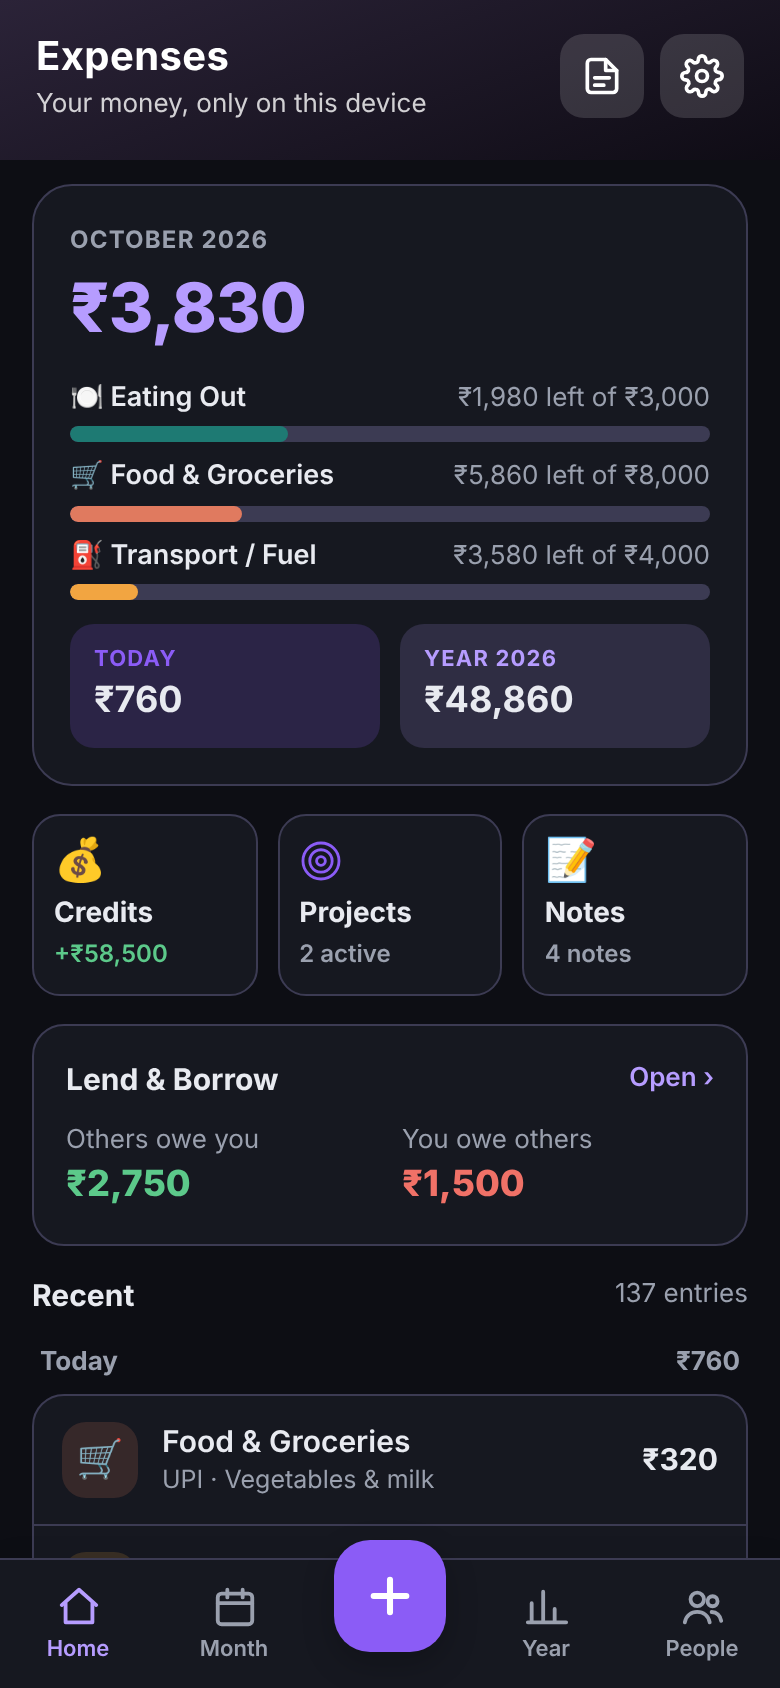
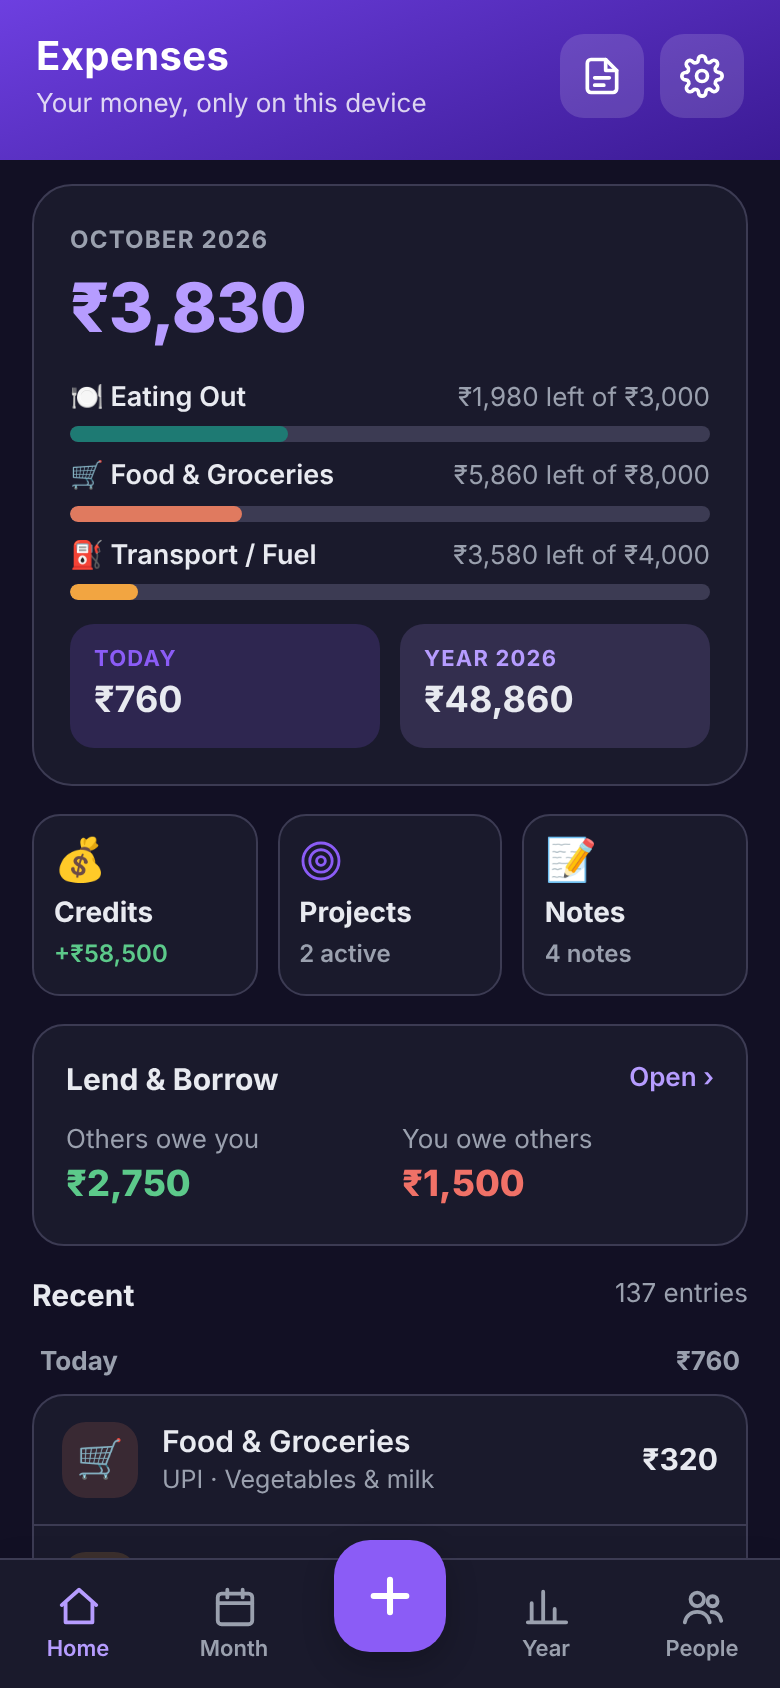
Themes: Purple, Blue and Rose Gold are now the main colour with black second; Black & Gold unchanged

Changed region(s): [[0.0, 0.0, 1.0, 0.0924]]

diff --git a/index.html b/index.html
@@ -16,9 +16,10 @@
 <style>
 /* ---- colour themes: P = main colour, PD = main colour in dark mode, A = accent, T = third, H1/H2 = header ---- */
 [data-theme="gold"]  {--P:#1F1F24;--PD:#E2B64B;--A:#D9A21B;--T:#2F9E6E;--H1:#2E2E35;--H2:#111114;--onP:#fff;--onPD:#1A1406;--onA:#1A1406}
-[data-theme="purple"]{--P:#1E1A28;--PD:#B69CFF;--A:#8B5CF6;--T:#2F9E6E;--H1:#2B2338;--H2:#0F0C15;--onP:#fff;--onPD:#1A1033;--onA:#fff}
-[data-theme="blue"]  {--P:#181C24;--PD:#8DB8FF;--A:#2F74E8;--T:#2F9E6E;--H1:#232A36;--H2:#0B0E14;--onP:#fff;--onPD:#0A1830;--onA:#fff}
-[data-theme="rose"]  {--P:#221D1E;--PD:#EDB4A2;--A:#C8826B;--T:#2F9E6E;--H1:#312A2B;--H2:#131011;--onP:#fff;--onPD:#2A140E;--onA:#1F0F0A}
+/* Purple / Blue / Rose Gold: main colour first, black second. AD/onAD = second colour in dark mode (the screen is already black, so a stronger shade of the main colour is used) */
+[data-theme="purple"]{--P:#5B2EDB;--PD:#B69CFF;--A:#17141F;--AD:#8B5CF6;--T:#2F9E6E;--H1:#6D3FE0;--H2:#3B1A94;--onP:#fff;--onPD:#1A1033;--onA:#fff;--onAD:#fff}
+[data-theme="blue"]  {--P:#2058D8;--PD:#8DB8FF;--A:#14171F;--AD:#3B82F6;--T:#2F9E6E;--H1:#2E6BEA;--H2:#173A8C;--onP:#fff;--onPD:#0A1830;--onA:#fff;--onAD:#fff}
+[data-theme="rose"]  {--P:#A8636E;--PD:#F0B8B4;--A:#1C1718;--AD:#D0868F;--T:#2F9E6E;--H1:#BE7E82;--H2:#7E4652;--onP:#fff;--onPD:#2A1418;--onA:#fff;--onAD:#1C1718}
 :root{
   --bg:#F5F6F8; --card:#FFFFFF; --text:#1E2230; --muted:#6B7080; --line:#E7E8EE;
   --pri:var(--P); --on-pri:var(--onP); --acc:var(--A); --on-acc:var(--onA); --third:var(--T); --big:var(--H2);
@@ -35,7 +36,7 @@
 }
 @media (prefers-color-scheme:dark){
   :root{ --bg:#0D0F14; --card:#171A21; --text:#E8EAF0; --muted:#9AA0AE; --line:#2A2E38;
-    --pri:var(--PD); --on-pri:var(--onPD); --big:var(--PD); --red:#F07167; --green:#5CC98A;
+    --pri:var(--PD); --on-pri:var(--onPD); --big:var(--PD); --acc:var(--AD, var(--A)); --on-acc:var(--onAD, var(--onA)); --red:#F07167; --green:#5CC98A;
     --pri-l:#232733; --acc-l:#2E241F; --red-l:#33201F; --green-l:#1C2E25; --shadow:none; color-scheme:dark; }
   @supports (color: color-mix(in srgb, red 50%, blue)){
     :root{ --bg:color-mix(in srgb, var(--P) 9%, #0B0D12); --card:color-mix(in srgb, var(--P) 7%, #15181F);
@@ -421,10 +422,10 @@ const DEFAULT_PAYS = ["UPI","Cash","Debit Card","Credit Card","Net Banking","Oth
 const YOU = "You";
 const DEFAULT_THEME = "gold";
 const THEMES = {
-  gold:   {name:"Black & Gold",   c:["#1F1F24","#D9A21B"], bar:"#111114"},
-  purple: {name:"Purple & Black", c:["#1E1A28","#8B5CF6"], bar:"#0F0C15"},
-  blue:   {name:"Blue & Black",   c:["#181C24","#2F74E8"], bar:"#0B0E14"},
-  rose:   {name:"Rose Gold & Black", c:["#221D1E","#C8826B"], bar:"#131011"}
+  gold:   {name:"Black & Gold",      c:["#1F1F24","#D9A21B"], bar:"#111114"},
+  purple: {name:"Purple & Black",    c:["#5B2EDB","#17141F"], bar:"#3B1A94"},
+  blue:   {name:"Blue & Black",      c:["#2058D8","#14171F"], bar:"#173A8C"},
+  rose:   {name:"Rose Gold & Black", c:["#A8636E","#1C1718"], bar:"#7E4652"}
 };
 function applyTheme(){
   const t = THEMES[D.settings.theme] ? D.settings.theme : DEFAULT_THEME;
@@ -1388,7 +1389,8 @@ function personColor(name){
   if(name===YOU) return "var(--pri)";
   let h=0; for(const ch of name.toLowerCase()) h=(h*31+ch.charCodeAt(0))>>>0;
   // skip colours that look too much like your own ("You") colour in the current theme
-  const me = hexRGB(getComputedStyle(document.documentElement).getPropertyValue("--pri").trim());
+  // (not needed for Black & Gold, which stays exactly as it was)
+  const me = document.documentElement.dataset.theme==="gold" ? null : hexRGB(getComputedStyle(document.documentElement).getPropertyValue("--pri").trim());
   for(let k=0;k<AV_COLORS.length;k++){
     const c = AV_COLORS[(h+k) % AV_COLORS.length], o = hexRGB(c);
     if(!me || !o || Math.hypot(me[0]-o[0], me[1]-o[1], me[2]-o[2]) > 110) return c;

diff --git a/sw.js b/sw.js
@@ -1,6 +1,6 @@
 // Offline support: keeps a copy of the app files on the device.
 // Your expense data is NOT here — it lives only in the app's local storage.
-const CACHE = "expense-app-v16";
+const CACHE = "expense-app-v17";
 const FILES = [
   "./",
   "./index.html",
